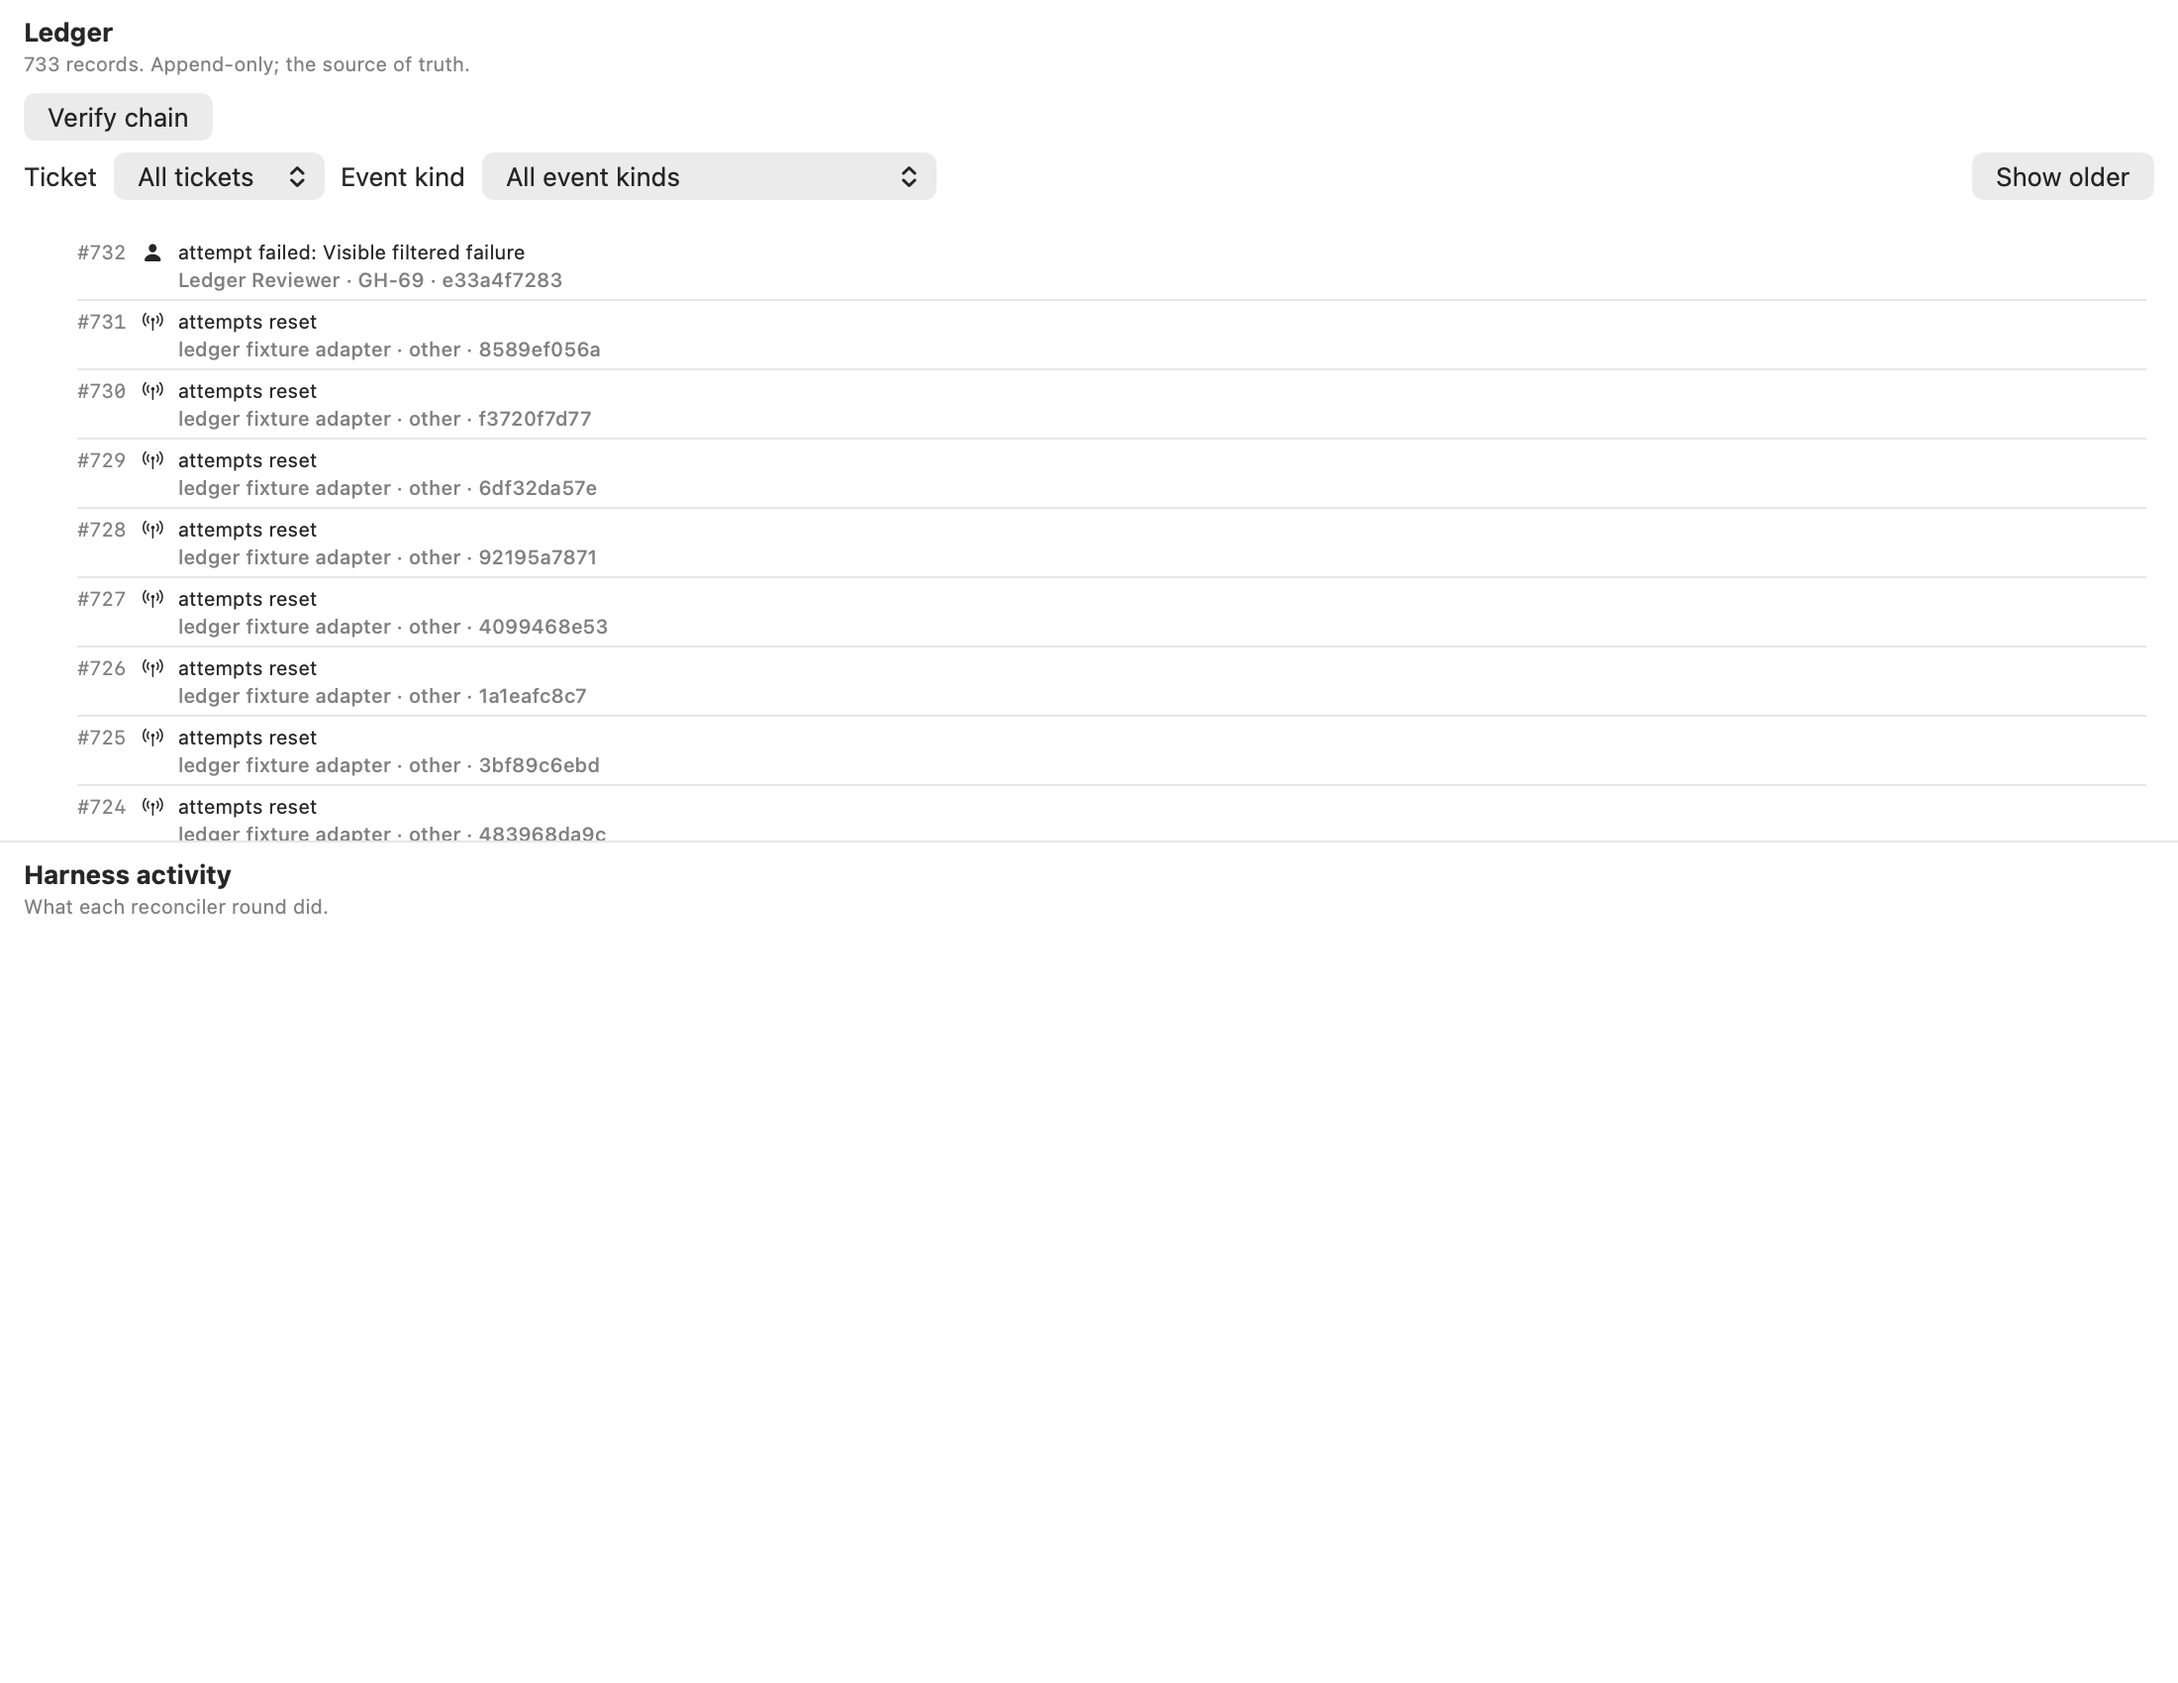
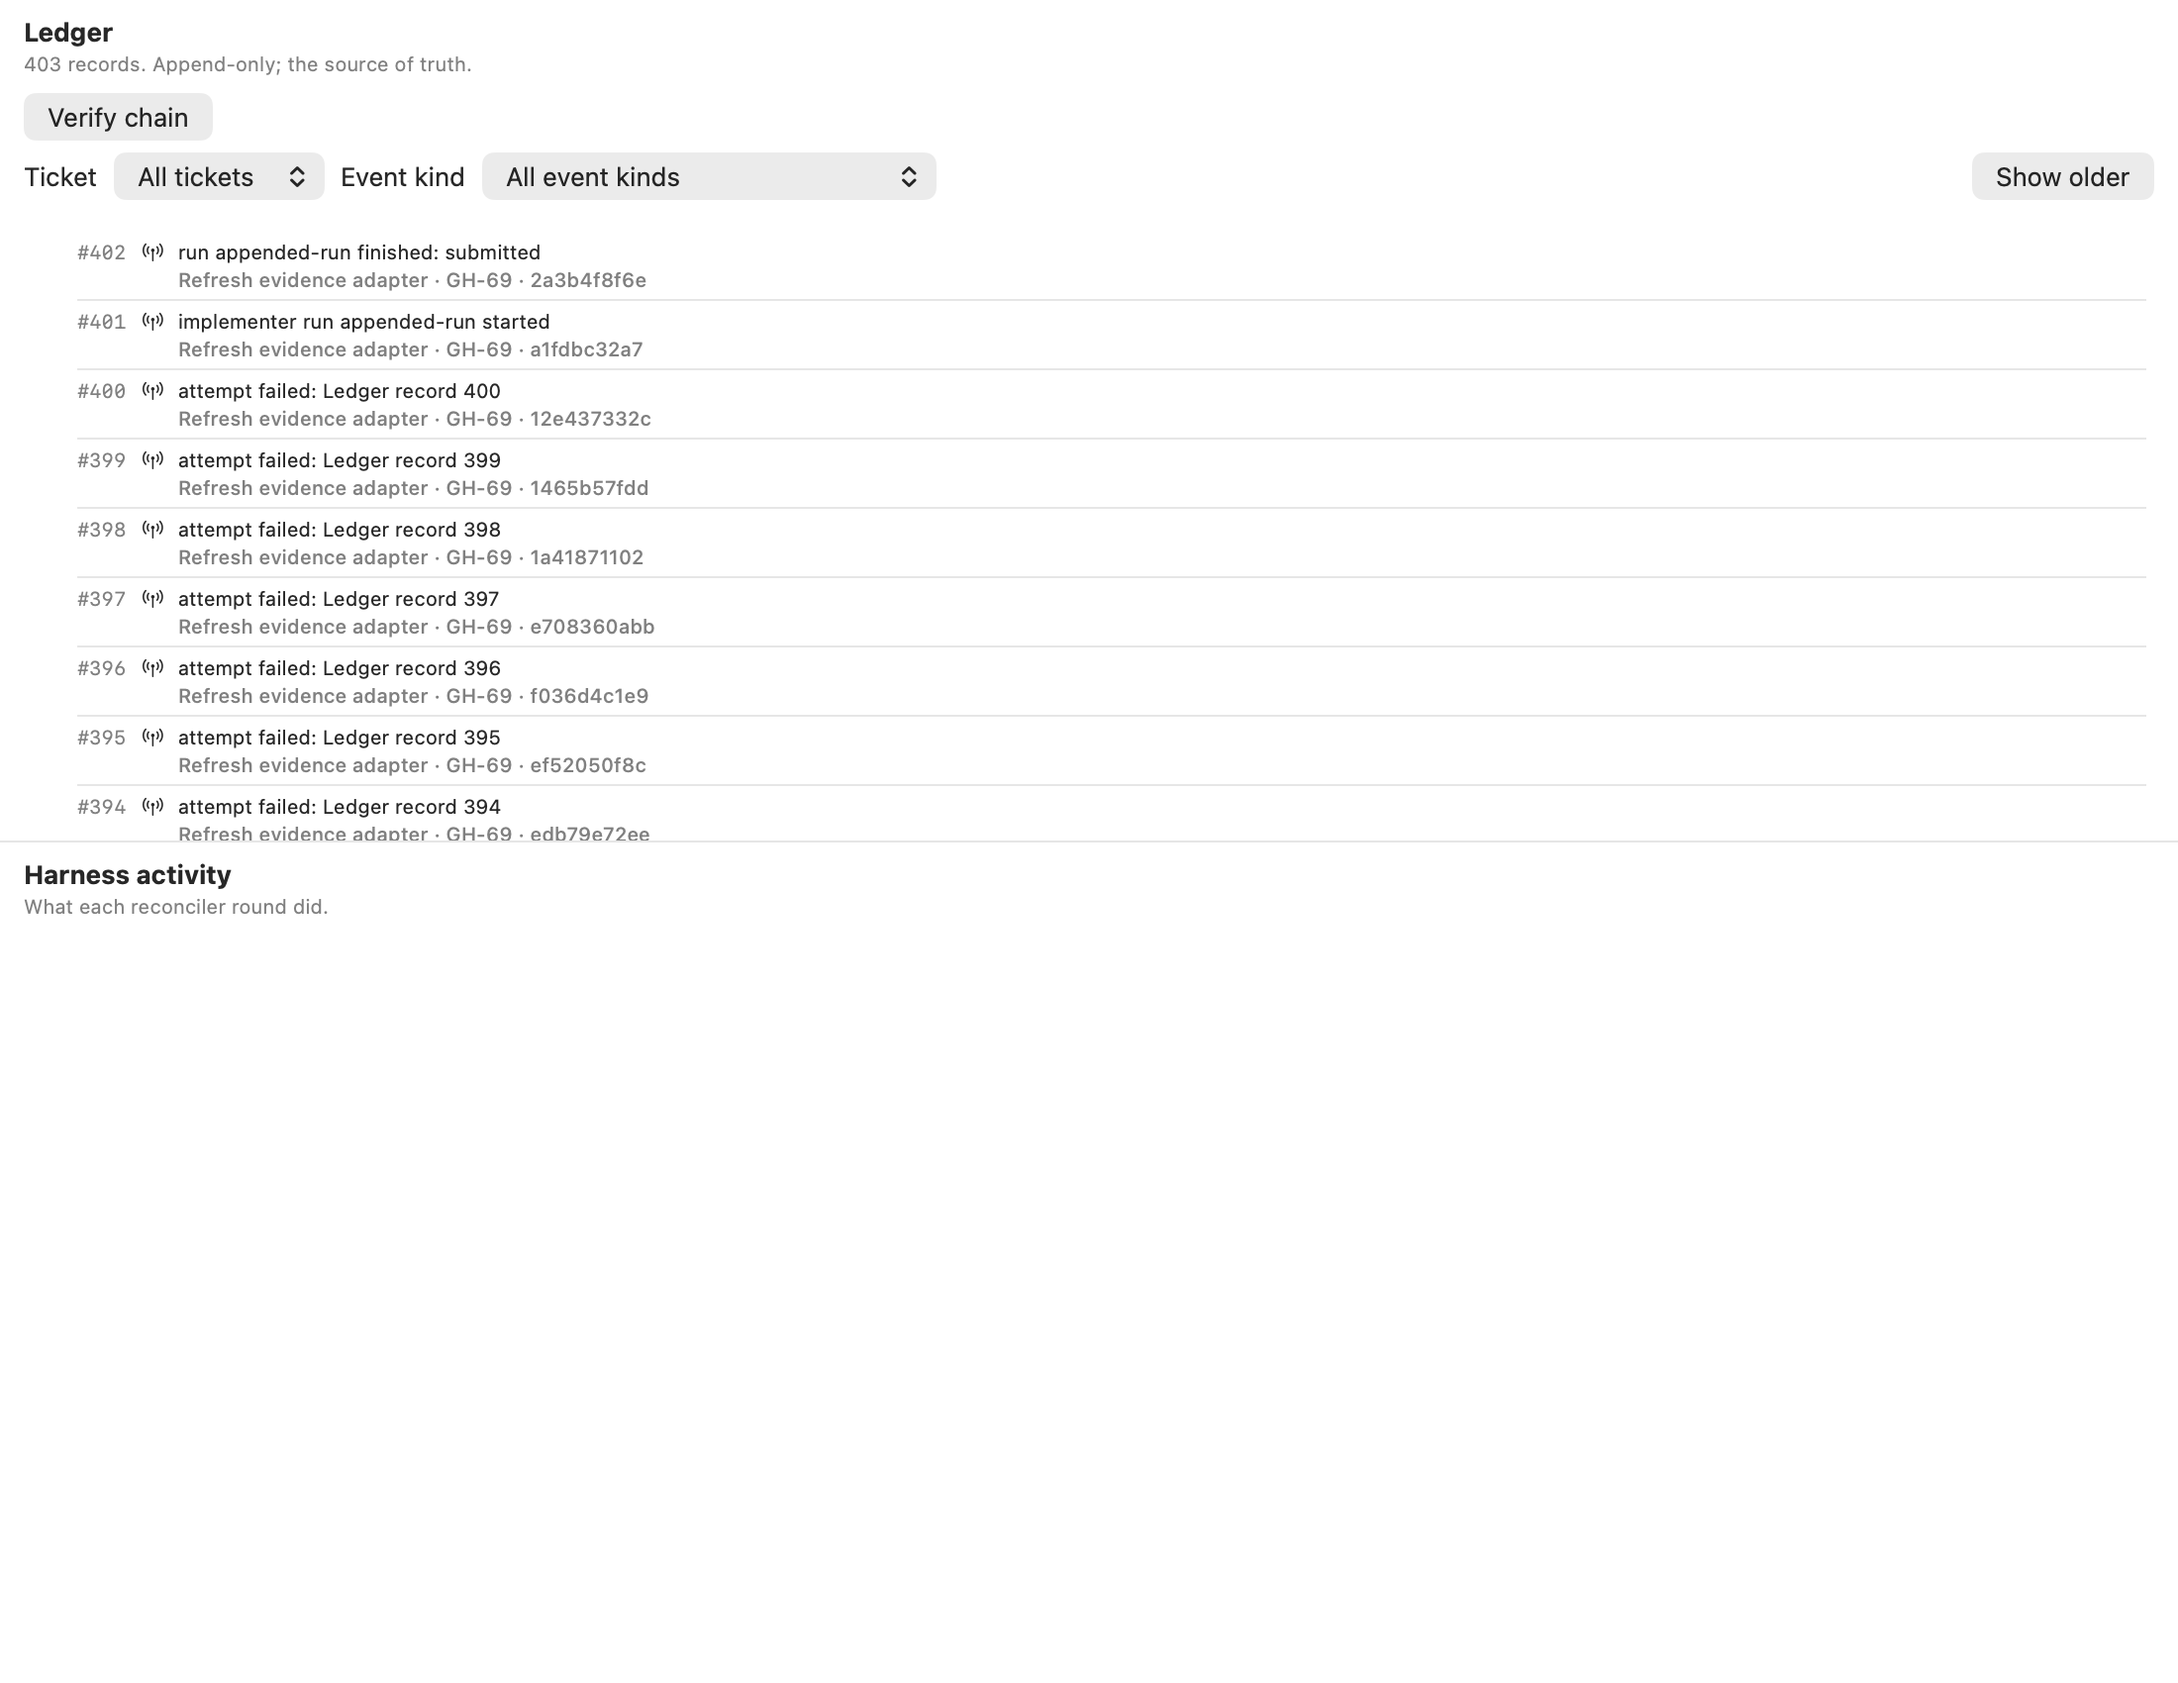
wn-GH-69: Page and filter the ledger pane without copying complete history on refresh

Changed region(s): [[0.0618, 0.1247, 0.2782, 0.4988], [0.0309, 0.0312, 0.2164, 0.0624]]

diff --git a/AgentOS/HarnessApp/AgentOSKit/Sources/AgentOSUI/HarnessLedgerSession.swift b/AgentOS/HarnessApp/AgentOSKit/Sources/AgentOSUI/HarnessLedgerSession.swift
@@ -28,13 +28,16 @@ import Foundation
         }
         await view.refreshLedger(from: source)
         guard refreshID == request else { return }
-        let target = view.ledgerPage.totalCount - 1
+        // A filter or paging request can supersede the display refresh without updating its count.
+        let snapshot = await source.pageSnapshot(node: nil, kind: nil, limit: 200)
+        guard refreshID == request else { return }
+        let target = snapshot.totalCount - 1
         var cursor = position
         var newRecords: [RecordedEvent] = []
         while cursor < target {
             let batch = await source.records(after: cursor, limit: min(200, target - cursor))
             guard refreshID == request else { return }
-            precondition(!batch.isEmpty, "Ledger history ended before its page snapshot position")
+            precondition(!batch.isEmpty, "Ledger history ended before its snapshot position")
             newRecords.append(contentsOf: batch)
             cursor = batch.last!.position
         }
